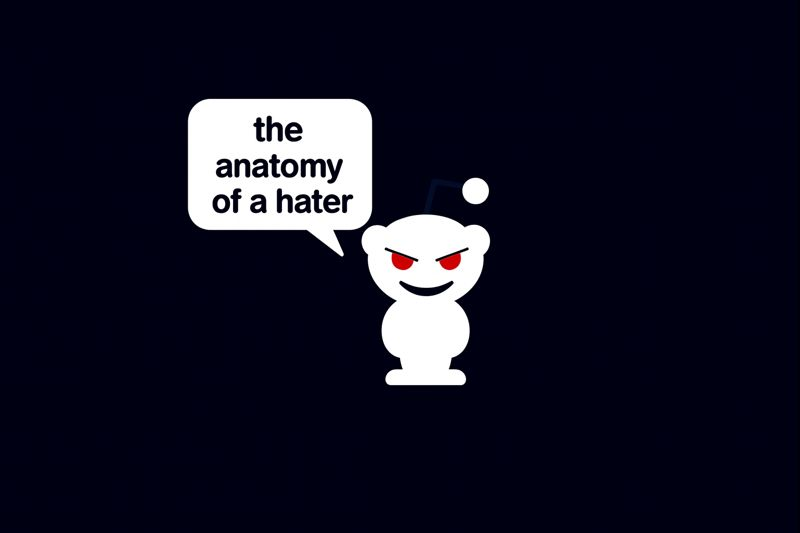
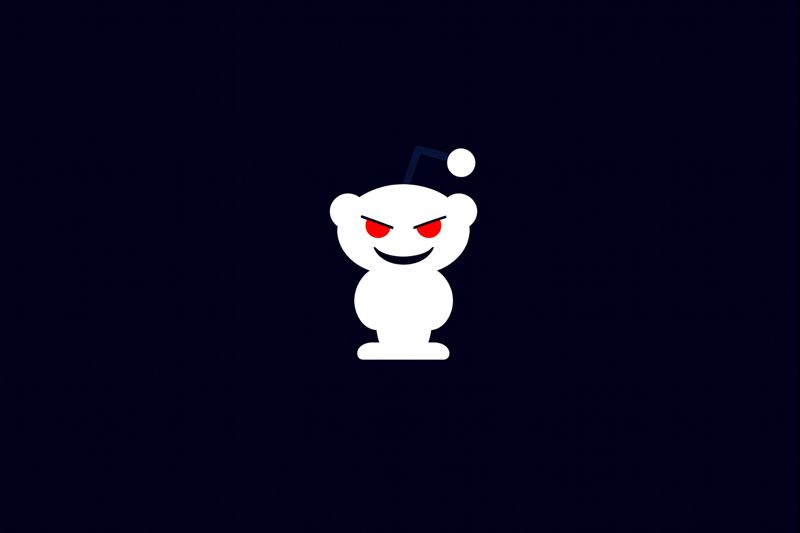
red

Changed region(s): [[0.2188, 0.1801, 0.625, 0.7505]]

diff --git a/assets/css/style.css b/assets/css/style.css
@@ -1,14 +1,14 @@
-/* General page style */
+/* ================= GLOBAL ================= */
+
 body {
   margin: 0;
-  padding: 0;
   background: #1e1e1e;
   color: #ffffff;
   font-family: "Inter", sans-serif;
-  line-height: 1.6;
 }
 
-/* Header */
+/* ================= HEADER ================= */
+
 header {
   background: black;
   padding: 1.5rem 2rem;
@@ -20,158 +20,74 @@ header {
 
 header h1 {
   margin: 0;
-  font-weight: 600;
   font-size: 1.8rem;
+  font-weight: 600;
 }
 
-/* Navigation */
 nav a {
-  color: #ffffff;
+  color: white;
   margin-left: 1.5rem;
-  font-weight: 400;
   text-decoration: none;
-  transition: opacity 0.2s ease;
 }
 
 nav a:hover {
   opacity: 0.7;
 }
 
-/* Main content area */
+/* ================= HERO ================= */
+
+.hero {
+  height: 100vh;
+  width: 100%;
+  background-image: url("../../images/reddit-img.png");
+  background-repeat: no-repeat;
+  background-size: cover;              /* ✅ fills hero, no gray frame */
+  background-position: center 100%;     /* 🔼 moves reddit guy UP */
+
+  display: flex;
+  justify-content: center;
+  align-items: flex-start;
+}
+
+.hero-content {
+  margin-top: 70vh;                    /* 🔽 moves button BELOW reddit text */
+  display: flex;
+  justify-content: center;
+}
+
+.hero-button {
+  padding: 0.7rem 1.4rem;
+  font-size: 1.2rem;
+  font-weight: 700;
+  background: rgba(0, 0, 0, 0.55);
+  color: #ff1100;
+  text-decoration: none;
+  border-radius: 10px;
+  transition: transform 0.2s ease, background 0.2s ease;
+  white-space: nowrap;
+}
+
+.hero-button:hover {
+  transform: scale(1.05);
+  background: rgba(0, 0, 0, 0.75);
+}
+
+/* ================= CONTENT ================= */
+
 main {
   max-width: 850px;
   margin: 3rem auto;
   padding: 0 1.5rem;
-  background: #1e1e1e;
-}
-
-section {
-  margin-bottom: 3rem;
 }
 
 h2 {
-  margin-bottom: 0.5rem;
-  font-size: 1.6rem;
-  font-weight: 600;
-  border-bottom: 1px solid #333;
-  padding-bottom: 0.4rem;
-}
-
-/* Footer */
-footer {
-  text-align: center;
-  padding: 1.5rem;
-  border-top: 1px solid #333;
-  font-size: 0.9rem;
-  color: #bbbbbb;
-}
-
-/* ================= HERO SECTION ================= */
-
-.hero {
-  position: relative;
-  height: 100vh;
-  background-image: url("../../images/fond_reddit_mechant.png");
-  background-size: cover;
-  background-position: center;
-  background-repeat: no-repeat;
-
-  display: flex;
-  align-items: center;
-  justify-content: center;
-}
-
-/* Image button wrapper */
-.hero-button {
-  display: inline-block;
-  opacity: 0;
-  pointer-events: none;
-  transform: translateY(10px);
-  transition: opacity 0.4s ease, transform 0.4s ease;
-}
-
-/* Reveal button on hover */
-.hero:hover .hero-button {
-  opacity: 1;
-  pointer-events: auto;
-  transform: translateY(0);
-}
-
-/* Start button image */
-.start-button-image {
-  width: 160px;
-  cursor: pointer;
-  transition: transform 0.2s ease, opacity 0.2s ease;
-}
-
-.start-button-image:hover {
-  transform: scale(1.05);
-  opacity: 0.9;
-}
-
-/* ================= SECTION TITLES ================= */
-
-#introduction h2,
-#research-questions h2,
-#data-presentation h2,
-#anatomy-of-a-hater h2,
-#conclusion h2 {
-  text-align: left;
   font-size: 2.2rem;
-  margin-bottom: 3rem;
+  border-bottom: 1px solid #333;
 }
-
-/* ================= RESEARCH QUESTIONS ================= */
-
-.rq-grid {
-  max-width: 900px;
-  margin: 0 auto;
-  display: grid;
-  gap: 1.5rem;
-}
-
-.rq-card {
-  position: relative;
-  background: rgba(255, 255, 255, 0.04);
-  border: 1px solid rgba(255, 255, 255, 0.12);
-  padding: 1.8rem 2.5rem 1.8rem 3.5rem;
-  border-radius: 18px;
-  backdrop-filter: blur(3px);
-  box-shadow: 0 0 18px rgba(0, 0, 0, 0.25);
-  transition: transform 0.2s ease, box-shadow 0.2s ease, border-color 0.2s ease;
-}
-
-.rq-card p {
-  margin: 0;
-  font-size: 1.2rem;
-  line-height: 1.7;
-}
-
-.rq-card:hover {
-  transform: translateY(-3px);
-  box-shadow: 0 12px 28px rgba(0, 0, 0, 0.45);
-  border-color: rgb(255, 69, 0);
-}
-
-@media (min-width: 800px) {
-  .rq-grid {
-    grid-template-columns: 1fr 1fr;
-  }
-}
-
-/* ================= INTRO TEXT ================= */
 
 .intro-big-text {
   font-size: 1.5rem;
-  font-weight: 400;
   line-height: 1.5;
-  max-width: 900px;
-  color: #ffffff;
-}
-
-#introduction {
-  padding-top: 1rem !important;
-  padding-bottom: 1rem !important;
 }
 
 /* ================= FLOATING REDDIT ================= */
@@ -195,7 +111,6 @@ footer {
   cursor: pointer;
 }
 
-/* Speech Bubble */
 .reddit-bubble {
   position: absolute;
   right: 70px;
@@ -205,12 +120,9 @@ footer {
   padding: 10px 14px;
   border-radius: 12px;
   font-size: 14px;
-  white-space: nowrap;
-
   opacity: 0;
   transform: translateY(10px);
   transition: opacity 0.25s ease, transform 0.25s ease;
-
   pointer-events: none;
 }
 
@@ -219,3 +131,11 @@ footer {
   transform: translateY(0);
 }
 
+/* ================= FOOTER ================= */
+
+footer {
+  text-align: center;
+  padding: 1.5rem;
+  border-top: 1px solid #333;
+  color: #bbb;
+}

diff --git a/index.html b/index.html
@@ -3,9 +3,9 @@
 
 <head>
   <meta charset="UTF-8">
-  <title>My Website</title>
+  <title>The Anatomy of a Hater</title>
 
-  <!-- Google Font: Inter -->
+  <!-- Google Font -->
   <link href="https://fonts.googleapis.com/css2?family=Inter:wght@300;400;600;700&display=swap" rel="stylesheet">
 
   <link rel="stylesheet" href="assets/css/style.css">
@@ -13,7 +13,7 @@
 
 <body>
 
-  <!-- Floating Reddit -->
+  <!-- Floating Reddit Icon -->
   <div class="floating-reddit-container">
     <img src="images/Reddit_Logo.png" class="floating-reddit" alt="Reddit Logo">
     <div class="reddit-bubble">Hello!</div>
@@ -32,71 +32,20 @@
 
   <!-- HERO -->
   <section class="hero">
-    <a href="#introduction" class="hero-button">
-      <img src="images/reddit_logo_bouton_start.png"
-           alt="start"
-           class="start-button-image">
-    </a>
+    <div class="hero-content">
+      <a href="#introduction" class="hero-button">Let’s start</a>
+    </div>
   </section>
 
   <main>
-
     <section id="introduction">
       <h2>Introduction</h2>
-
       <p class="intro-big-text">
         Online conflict is rising, and social media often turns into a stage for anonymous negativity.
         Using a Reddit dataset (2014–2017), we trace how subreddits link to each other and reveal a hidden
-        network of hostility. Focusing on the 10% of interactions tagged as negative, we dive into the
-        profiles of the users who spread this hostility: their communities, writing styles, targets,
-        and posting habits. By uncovering how these “haters” operate, we aim to shed light on the dynamics
-        that fuel online anger.
+        network of hostility.
       </p>
     </section>
-
-    <section id="research-questions">
-      <h2>Research Questions</h2>
-
-      <div class="rq-grid">
-        <article class="rq-card">
-          <p>Is a hater likely to be active in certain subreddits?</p>
-        </article>
-
-        <article class="rq-card">
-          <p>Are there persisting conflicts between subreddits?</p>
-        </article>
-
-        <article class="rq-card">
-          <p>Does a hater have a particular way of writing / communicating?</p>
-        </article>
-      </div>
-    </section>
-
-    <section id="data-presentation">
-      <h2>Data Presentation</h2>
-
-      <iframe src="plots/sentiment_distribution.html" width="100%" height="500" style="border:none;"></iframe>
-      <iframe src="plots/subreddit_network_interactive.html" width="100%" height="500" style="border:none;"></iframe>
-
-      <p>
-        Here you can present your dataset, visualizations, and key descriptive statistics.
-      </p>
-    </section>
-
-    <section id="anatomy-of-a-hater">
-      <h2>Anatomy of a Hater</h2>
-      <p>
-        This section breaks down the typical characteristics, language, and dynamics of the “hater”.
-      </p>
-    </section>
-
-    <section id="conclusion">
-      <h2>Conclusion</h2>
-      <p>
-        Summarize your findings, limits of the analysis, and possible future research directions.
-      </p>
-    </section>
-
   </main>
 
   <footer>
